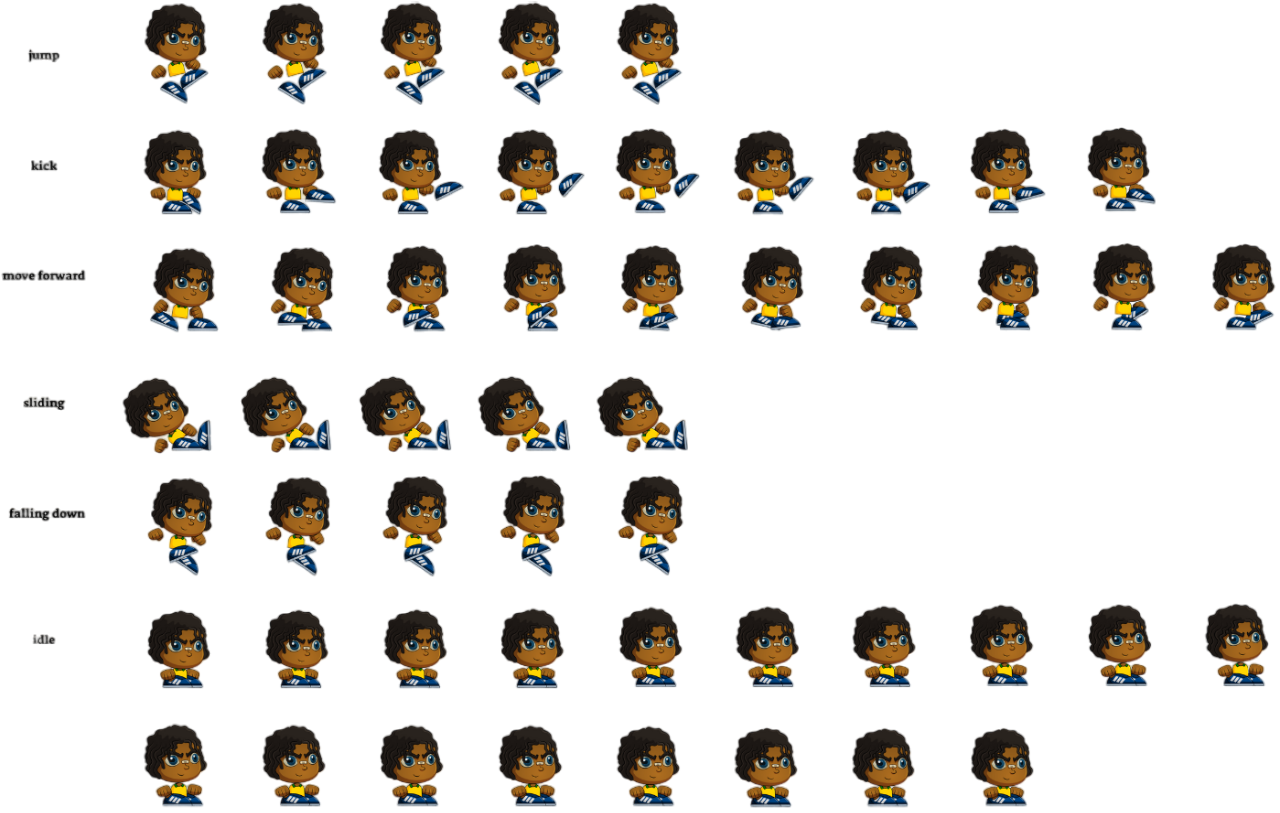
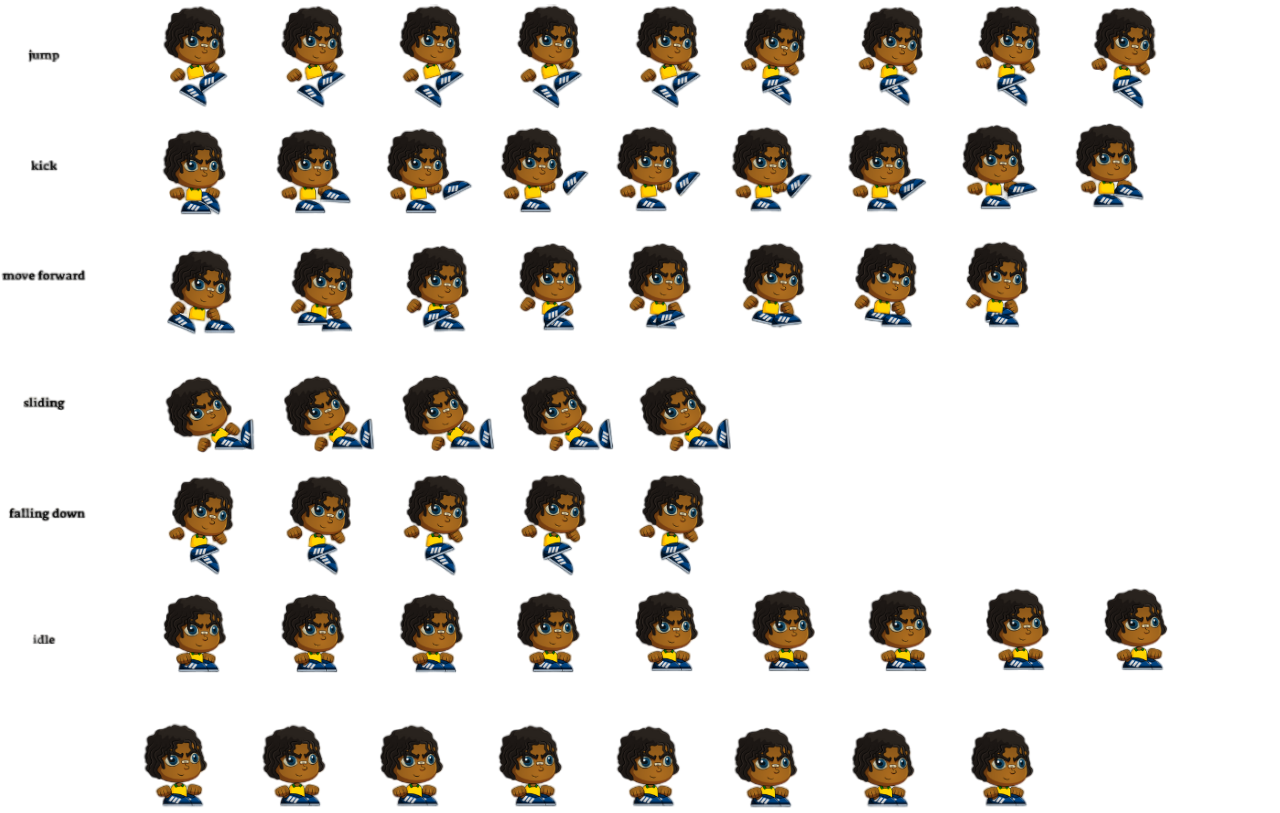
add portugal and brazil

diff --git a/src/gameObject/ComputerPlayer.cpp b/src/gameObject/ComputerPlayer.cpp
@@ -2,19 +2,35 @@
 #include "Resources.h"
 #include "power/FirePower.h"
 
-ComputerPlayer::ComputerPlayer():m_numOfJump(0),m_posX(0), m_posY(0), m_move(-2), m_gravity(0)
+ComputerPlayer::ComputerPlayer():m_numOfJump(0), m_jump(false)
 {
 
 	sf::Vector2f pos(550, 80);
-
 	m_power = std::make_unique<FirePower>(pos);
    
 	m_sprite.setTexture(Resources::getInstance().getCharactersTexture()[0]);
 	resetToPosition();
+	m_basePosition = sf::Vector2f(272, 775);
 
-	m_basePosition = sf::Vector2f(272, 750);
 
-	m_sprite.setPosition(m_basePosition);
+	//----------------------box2d---------------------------//
+	auto world = Box2d::getInstance().getBox2dWorld();
+	// Create the player
+	b2BodyDef playerBodyDef;
+	playerBodyDef.type = b2_dynamicBody;
+	playerBodyDef.position.Set(m_basePosition.x / SCALE, m_basePosition.y / SCALE);
+	m_body = world->CreateBody(&playerBodyDef);
+	b2PolygonShape playerBox;
+	playerBox.SetAsBox(30.f / SCALE, 40.f / SCALE);
+	b2FixtureDef playerFixtureDef;
+	playerFixtureDef.shape = &playerBox;
+	playerFixtureDef.density = 10.f;
+	playerFixtureDef.friction = 0.4f;
+	m_body->CreateFixture(&playerFixtureDef);
+	// Set the gravity scale for the player
+	m_body->SetGravityScale(PLAYER_GRAVITY_SCALE);
+
+	m_sprite.setOrigin(30.f, 40.f);
 
 	m_startSprite.push_back(sf::Vector2f(160, 126));
 	m_startSprite.push_back(sf::Vector2f(160, 244));
@@ -37,42 +53,44 @@ void ComputerPlayer::move(sf::Vector2f ballPosition) {
 
     sf::Vector2f direction = ballPosition - m_sprite.getPosition();
     float length = std::sqrt(direction.x * direction.x + direction.y * direction.y);
+	if (m_jump)
+	{
+		movePlayer(m_startSprite[2], 7, 100);
+	}
+	update();
 
     if (length > kickRange) {
-   
+		
+		if (length > 600 && ballPosition.x > m_sprite.getPosition().x){
+			resetToPosition();
+			return;
+		}
+
 		//Right Direction Test
 		if (ballPosition.x > m_sprite.getPosition().x ) {
 
-			moveWithRange(4);
+			m_body->SetLinearVelocity(b2Vec2(7.f, m_body->GetLinearVelocity().y));
 			movePlayer(m_startSprite[1], 6, 10);
-
 		}
 		//Left Direction Test
 		else if (ballPosition.x < m_sprite.getPosition().x) {
 
-			moveWithRange(-4);
+			m_body->SetLinearVelocity(b2Vec2(-7.f, m_body->GetLinearVelocity().y));
 			movePlayer(m_startSprite[1], 6, 10);
-
 		}
     }
-    else {
-		//Upward Direction Test
-		if (ballPosition.y < 750) {
-			//so jump
-			if (m_posY > -180) {
-				m_posY -= 25;
-			}
-			movePlayer(m_startSprite[2], 7, 100);
-		}
+    else if(ballPosition.y < 750 && !m_jump) {
+		
+		m_jump = true;
+		m_body->ApplyLinearImpulseToCenter(b2Vec2(0.f, -JUMP_FORCE), true);
     }
 
-	updateGravityAndCollision();
 }
 
 void ComputerPlayer::reset() {
-	m_sprite.setPosition(m_basePosition);
-	m_posX = 0;
-	m_posY = 0;
+	b2Vec2 newPosition(m_basePosition.x / SCALE, m_basePosition.y / SCALE);
+	m_body->SetTransform(newPosition, m_body->GetAngle());
+	
 }
 
 
@@ -85,54 +103,26 @@ void ComputerPlayer::movePlayer(sf::Vector2f startPos, int maxSprite, float maxT
 		if (m_numOfJump > 110 * maxSprite)
 		{
 			m_numOfJump = 0;
-			m_move = -2;
+			m_jump = false;
 			return;
 		}
 		else
 		{
 			m_moveClock.restart();
 			m_numOfJump += 115;
-			resetToPosition(startPos, m_numOfJump, m_posX, m_posY);
+			resetToPosition(startPos, m_numOfJump);
 		}
 
 	}
 }
 
 // Reset to default position if not jumping
-void ComputerPlayer::resetToPosition(sf::Vector2f startPos, int numOfJump, int posX, int posY) {
+void ComputerPlayer::resetToPosition(sf::Vector2f startPos, int numOfJump) {
 
 	sf::IntRect characterRect(startPos.x + numOfJump, startPos.y, 80, 90); // Assuming each character is 32x32 pixels
 	// Set the texture rectangle to the character's position and size on the sprite sheet
 	m_sprite.setTextureRect(characterRect);
-	m_sprite.setPosition(float(m_basePosition.x + m_posX), float(m_basePosition.y + posY));
-}
-
-// Handle gravity and ground collision
-void ComputerPlayer::updateGravityAndCollision() {
-	if (m_sprite.getPosition().y < 750)
-	{
-		m_sprite.setPosition(float(m_basePosition.x + m_posX), float(m_basePosition.y + m_posY + m_gravity));
-		m_gravity += 5;
-	}
-	else
-	{
-		m_gravity = 0;
-		m_posY = 0;
-	}
-}
-
-void ComputerPlayer::moveWithRange(int x) {
-	
-	if (false)
-	{
-		if (m_posX + x > -1400 && m_posX + x < 220)
-			m_posX += x;
-	}
-	else
-	{
-		if (m_posX + x > -220 && m_posX + x < 1400)
-			m_posX += x;
-	}
+	//m_sprite.setPosition(float(m_basePosition.x + m_posX), float(m_basePosition.y + posY));
 }
 
 void ComputerPlayer::draw(sf::RenderWindow& window)const {
@@ -144,7 +134,19 @@ sf::Vector2f ComputerPlayer::getRivalGoal()const {
 
 	return m_rivalGoal;
 }
+
+//-----------------------------------------------------------------------------
+void ComputerPlayer::update() {
+	b2Vec2 position1 = m_body->GetPosition();
+	m_sprite.setPosition(B2VecToSFVec(position1));
+}
+
 ComputerPlayer::~ComputerPlayer()
 {
+	std::cout << " C-D" << std::endl;
+	m_body->DestroyFixture(m_body->GetFixtureList());
+	auto world = Box2d::getInstance().getBox2dWorld();
+	world->DestroyBody(m_body);
+	m_body = nullptr;
 }
 

diff --git a/src/gameObject/Player.cpp b/src/gameObject/Player.cpp
@@ -19,18 +19,17 @@ m_currentMoveState(&m_standMoveState)
 	if (m_playerSide)
 	{
 		m_sprite.setScale(-1, 1);
-		m_basePosition = sf::Vector2f(1520, 770);
+		m_basePosition = sf::Vector2f(1520, 775);
 	}
 	else
 	{
-		m_basePosition = sf::Vector2f(272, 770);
+		m_basePosition = sf::Vector2f(272, 775);
 	}
 	//----------------------box2d---------------------------//
 	auto world = Box2d::getInstance().getBox2dWorld();
 	// Create the player
 	b2BodyDef playerBodyDef;
 	playerBodyDef.type = b2_dynamicBody;
-	playerBodyDef.bullet = true;
 	playerBodyDef.position.Set(m_basePosition.x / SCALE, m_basePosition.y / SCALE);
 	m_body = world->CreateBody(&playerBodyDef);
 	b2PolygonShape playerBox;
@@ -45,7 +44,7 @@ m_currentMoveState(&m_standMoveState)
 	m_body->SetGravityScale(PLAYER_GRAVITY_SCALE);
 
 	m_sprite.setOrigin(30.f, 40.f);
-	m_sprite.setTexture(Resources::getInstance().getCharactersTexture()[0]);
+	m_sprite.setTexture(Resources::getInstance().getCharactersTexture()[2]);
 	resetToPosition();
 
 

diff --git a/include/gameObject/ComputerPlayer.h b/include/gameObject/ComputerPlayer.h
@@ -4,7 +4,8 @@
 #include "Factory/MovingFactory.h"
 #include "power/Power.h"
 #include "gameObject/Ball.h"
-
+#include "Box2d.h"
+#include <iostream>
 
 class ComputerPlayer :public MovingObject
 {
@@ -19,23 +20,19 @@ public:
 	virtual void reset()override;
 
 	void movePlayer(sf::Vector2f startPos, int maxSprite, float maxTime);
-	void resetToPosition(sf::Vector2f startPos = sf::Vector2f(160, 590), int numOfJump = 0, int posX = 0, int posY = 0);
+	void resetToPosition(sf::Vector2f startPos = sf::Vector2f(160, 590), int numOfJump = 0);
 
 	sf::Vector2f getRivalGoal()const;
-
-	void updateGravityAndCollision();
-	void moveWithRange(int x);
 
 	virtual ~ComputerPlayer();
 
 
 private:
 
+	void update();
+
 	int m_numOfJump;
-	int m_posX;
-	int m_posY;
-	int m_move;
-	int m_gravity;
+
 	sf::Clock m_moveClock;
 	std::unique_ptr<Power> m_power;
 	std::vector<sf::Vector2f> m_startSprite;
@@ -49,6 +46,7 @@ private:
 
 	static bool m_registeritComputerPlayer;
 
-
+	b2Body* m_body;
+	bool m_jump;
 };
 

diff --git a/include/gameObject/Player.h b/include/gameObject/Player.h
@@ -7,6 +7,7 @@
 #include "Factory/MovingFactory.h"
 #include "power/Power.h"
 #include "Box2d.h"
+#include <iostream>
 //-------
 #include "MovePlayerState/BaseMovePlayerState.h"
 #include "MovePlayerState/StandPlayerState.h"
@@ -33,7 +34,13 @@ public:
 	void update();
 	bool getSideOfPlayer();
 
-	virtual ~Player() = default;
+	virtual ~Player() {
+		std::cout << " P-D" << std::endl;
+		m_body->DestroyFixture(m_body->GetFixtureList());
+		auto world = Box2d::getInstance().getBox2dWorld();
+		world->DestroyBody(m_body);
+		m_body = nullptr;
+	};
 private:
 
 	int m_numOfJump;

diff --git a/include/gameObject/Ball.h b/include/gameObject/Ball.h
@@ -5,7 +5,7 @@
 #include <SFML/Graphics.hpp>
 #include "Factory/MovingFactory.h"
 #include "Box2d.h"
-
+#include <iostream>
 
 class Ball : public MovingObject
 {
@@ -27,7 +27,13 @@ public:
 	void update();
 	void kick(bool rigthSide);
 
-	virtual ~Ball() = default;
+	virtual ~Ball() {
+		std::cout << " B-D" << std::endl;
+		m_body->DestroyFixture(m_body->GetFixtureList());
+		auto world = Box2d::getInstance().getBox2dWorld();
+		world->DestroyBody(m_body);
+		m_body = nullptr;
+	};
 
 	//just for chacking --------
 	sf::CircleShape& getCircle();

diff --git a/src/Resources.cpp b/src/Resources.cpp
@@ -23,7 +23,7 @@ Resources::Resources(){
 	std::vector<std::string> gameMode{ "BackgroundGameMode.png", "Multiplayer.png" ,"Player.png", "Online.png"};
 	loadFromFile(gameMode, m_gameModeTexture);
 
-	std::vector<std::string> characters{ "ItalyPlayer.png" }; 
+	std::vector<std::string> characters{ "ItalyPlayer.png", "BrazilianPlayer.png" , "PortugalPlayer.png" };
 	loadFromFile(characters, m_charactersSheet);
 
 	std::vector<std::string> balls{ "Ball 01.png","Ball 02.png"  };

diff --git a/src/gameObject/Ball.cpp b/src/gameObject/Ball.cpp
@@ -19,8 +19,8 @@ Ball::Ball():m_ballVelocity(5.0f, -10.0f), m_ball(25.0f)
     b2FixtureDef fixtureDef;
     fixtureDef.shape = &circle;
     fixtureDef.density = 0.4f;
-    fixtureDef.friction = 0.7f;
-    fixtureDef.restitution = 0.8f;
+    fixtureDef.friction = 0.1f;
+    fixtureDef.restitution = 0.7f;
     m_body->CreateFixture(&fixtureDef);
 	
 

diff --git a/src/gameState/Board.cpp b/src/gameState/Board.cpp
@@ -91,7 +91,6 @@ void Board::respond(sf::Vector2f pressed) {
 	moveAd();
 	
 
-
 	//move the players and the ball
 	for (int i = 0; i < m_movingObject.size() - m_goalSign; i++)
 	{
@@ -130,7 +129,6 @@ void Board::respond(sf::Vector2f pressed) {
 			break;
 		}
 	}
-  
 }
 
 void Board::moveAd()

diff --git a/src/gameState/SelectTeam.cpp b/src/gameState/SelectTeam.cpp
@@ -35,7 +35,7 @@ void SelectTeam::draw(sf::RenderWindow& window) const {
 
 	for (int i = 0; i < m_buttons.size(); i++)
 	{
-		if (m_playerSelected == m_numOfPlayers) {
+		if (m_playerSelected >= m_numOfPlayers) {
 
 			m_buttons[i]->draw(window);
 		}
